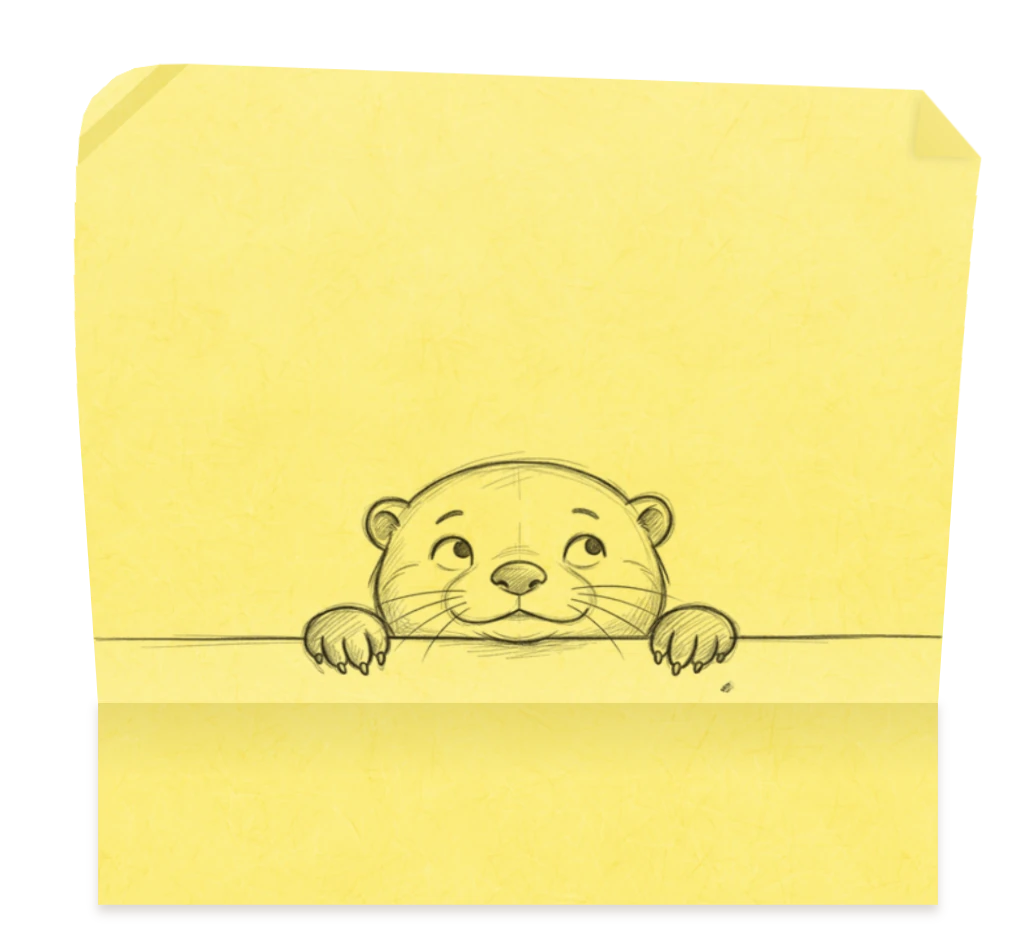
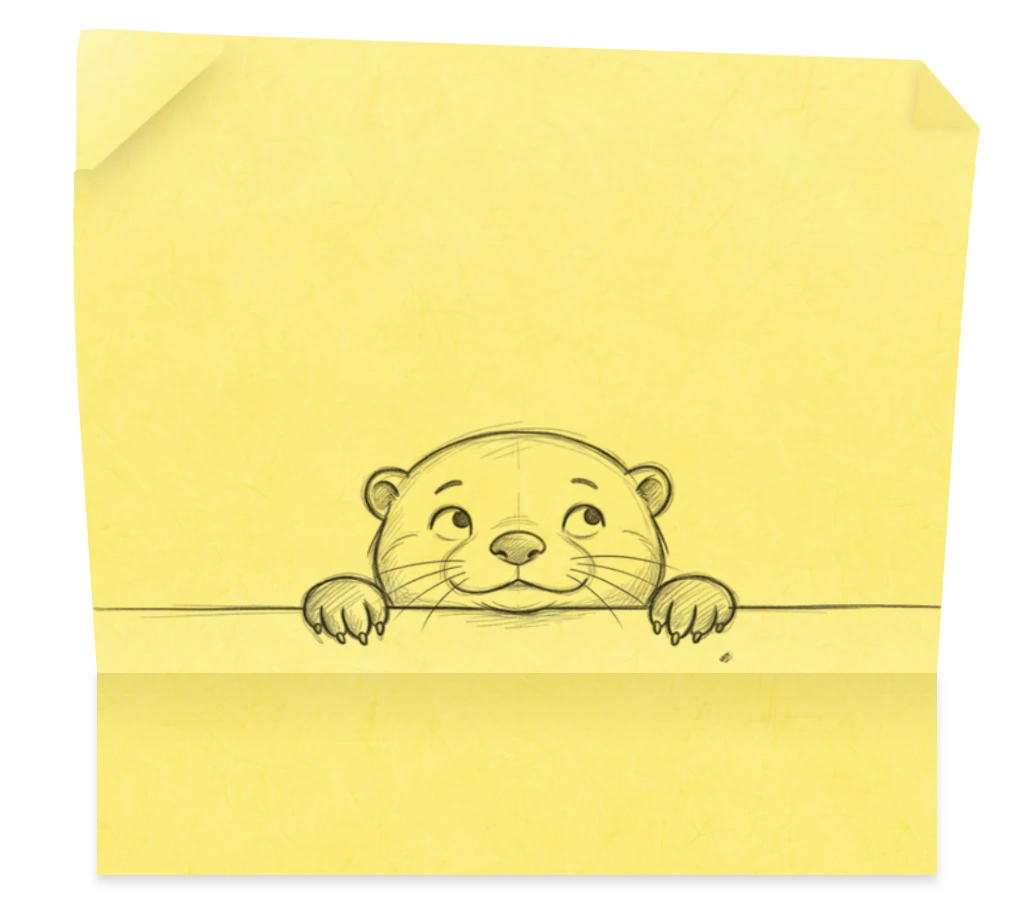
Post-it: the top left corner rolls toward the viewer, point kept
The last version folded the corner away from the camera. Its turns had
the wrong sign, which a test at 170 degrees showed. It also read as a
crease: four hinges up to 80 degrees and a shade in the bend.

Now the corner turns toward the viewer, 0.16 of the note:
- 14 fine hinges whose turns grow toward the tip, 60 degrees in all, so
  it keeps its point;
- one light across the whole curl, brighter toward the tip;
- a soft shadow cast below it on the note, which is what makes it read
  as lifted at the post-it's size.

Every band now paints its paper on its own layer, so the curl can reach
past the top band. A clip-path on a band would flatten the 3D bands
above it. The overlap at each hinge is a share of the note, so the 5x
zoom pictures have no seam. The zoom pictures are re-baked.

Changed region(s): [[0.0914, 0.4641, 0.9449, 0.7735], [0.061, 0.0309, 0.9754, 0.2475]]

diff --git a/src/app/landing/PostIt.tsx b/src/app/landing/PostIt.tsx
@@ -209,32 +209,62 @@ const BANDS = [0.04, 0.04, 0.04, 0.04, 0.04, 0.04, 0.04, 0.12];
 
 /**
  * The top left corner curling toward us (2026-10-07: "make only the top
- * left corner of the postit curl a bit towards the camera"): a square
- * `size` of the note on a side at the top band's corner, cut along diagonal
- * hinges at `hinges` of it - each piece turned about every hinge from the
- * outermost in to its own, by `turn` degrees at each, so it rolls rather
- * than folds (80 degrees at the tip). Shaded in the bend - the paper there
- * turned from the light - and lighter toward the tip, which faces it.
+ * left corner of the postit curl a bit towards the camera"; then "i dont
+ * want that crease type design ... i want it to curl towards the camera.
+ * point of corner still visible"): a square `size` of the note on a side at
+ * the top band's corner - reaching down into the bands below it, whose
+ * faces are cut to match - cut along `steps` diagonal hinges evenly spaced to
+ * the tip, each piece turned about every hinge from the outermost in to its
+ * own. The turns grow toward the tip, adding up to `turn` degrees there - a
+ * roll, too fine at every hinge to show as a fold, and short enough of a
+ * right angle that the corner keeps its point. One light across all of it
+ * (each piece shows its part of the same gradient), brighter toward the tip
+ * as it lifts into the light, like the bands below. (Four hinges, up to 80
+ * degrees and a shade in the bend read as creases and lost the point.)
  */
-const CURL = { size: 0.12, hinges: [1, 0.72, 0.46, 0.22], turn: [14, 18, 22, 26] };
+const CURL = { size: 0.16, steps: 14, turn: 60, light: 0.3 };
 
 function Curl({ backgroundPosition, light }: { backgroundPosition: string; light: number }) {
   const s = CURL.size;
+  const n = CURL.steps;
+  const hinge = (i: number) => 1 - i / n;
+  // The turn at each hinge, growing toward the tip: (i + 1) shares of it.
+  const share = (n * (n + 1)) / 2;
+  const turn = (i: number) => (CURL.turn * (i + 1)) / share;
   const about = (h: number, deg: number) => {
     const m = `calc(var(--note) * ${((s * h) / 2).toFixed(4)})`;
     const back = `calc(var(--note) * ${((-s * h) / 2).toFixed(4)})`;
-    return `translate(${m}, ${m}) rotate3d(1, -1, 0, ${deg}deg) translate(${back}, ${back})`;
+    return `translate(${m}, ${m}) rotate3d(1, -1, 0, ${deg.toFixed(2)}deg) translate(${back}, ${back})`;
   };
-  return CURL.hinges.map((h, i) => {
-    const inner = CURL.hinges[i + 1] ?? 0;
-    // Out to its hinge and 2px past it, under the piece outside it: at the
-    // hinge itself the film showed through the two anti-aliased edges.
-    const out = `calc(${(h * 100).toFixed(1)}% + 2px)`;
-    const clipPath = `polygon(${(inner * 100).toFixed(1)}% 0, ${out} 0, 0 ${out}, 0 ${(inner * 100).toFixed(1)}%)`;
-    const transform = CURL.hinges.slice(0, i + 1).map((hj, j) => about(hj, -CURL.turn[j])).join(" ");
-    const tint = i === 0 ? "rgba(120, 88, 10, 0.07)" : `rgba(255, 255, 255, ${(light + 0.05 * i).toFixed(3)})`;
-    return <span key={i} className={styles.postitCurl} style={{ backgroundPosition, clipPath, transform, boxShadow: `inset 0 0 0 999px ${tint}` }} />;
+  // The gradient on the corner's square, the same for every piece: "to top
+  // left" runs across the hinges, 50% on the outermost, 100% at the tip.
+  const lit = `linear-gradient(to top left, rgba(255,255,255,${light.toFixed(3)}) 50%, rgba(255,255,255,${(light + CURL.light).toFixed(3)}) 100%)`;
+  return Array.from({ length: n }, (_, i) => {
+    const out = hinge(i);
+    const inner = i + 1 < n ? hinge(i + 1) : 0;
+    // Out to its hinge and a little past it (3px at the full 168px note,
+    // in proportion at any size - the zoom pictures are drawn at 5x), under
+    // the piece outside it: at the hinge itself the film showed through the
+    // two anti-aliased edges.
+    const o = `calc(${(out * 100).toFixed(2)}% + var(--note) * 0.018)`;
+    const clipPath = `polygon(${(inner * 100).toFixed(2)}% 0, ${o} 0, 0 ${o}, 0 ${(inner * 100).toFixed(2)}%)`;
+    const transform = Array.from({ length: i + 1 }, (_, j) => about(hinge(j), turn(j))).join(" ");
+    return (
+      <span key={i} className={styles.postitCurl} style={{ backgroundPosition, clipPath, transform }}>
+        <span className={styles.postitLight} style={{ background: lit }} />
+      </span>
+    );
   });
+}
+
+/** A band's face, cut where the curled corner reaches into it - `reach`
+ *  note sides from its top left along each edge - and, on the top band,
+ *  at its turned-over right corner. */
+function faceClip(reach: number, top: boolean) {
+  const left = reach > 0 ? [`calc(var(--note) * ${reach.toFixed(4)}) 0`] : ["0 0"];
+  const right = top ? ["calc(100% - var(--note) * 0.075) 0", "100% calc(var(--note) * 0.075)"] : ["100% 0"];
+  const end = reach > 0 ? [`0 calc(var(--note) * ${reach.toFixed(4)})`] : [];
+  return `polygon(${[...left, ...right, "100% 100%", "0 100%", ...end].join(", ")})`;
 }
 
 function Band({ k }: { k: number }) {
@@ -243,21 +273,15 @@ function Band({ k }: { k: number }) {
   const done = (i: number) => BANDS.slice(0, i).reduce((a, b) => a + b, 0) / (1 - STUCK - FLAT / 100);
   const light = (i: number) => (0.02 + 0.13 * done(i)).toFixed(3);
   const backgroundPosition = `0 calc(var(--note) * ${-top})`;
-  const lit = <span className={styles.postitLight} style={{ background: `linear-gradient(to top, rgba(255,255,255,${light(k)}), rgba(255,255,255,${light(k + 1)}))` }} />;
-  if (k === BANDS.length - 1) {
-    return (
-      <span className={`${styles.postitSeg} ${styles.postitBand} ${styles.postitTop}`} style={{ ["--band" as string]: BANDS[k], ["--curl" as string]: CURL.size }}>
-        <span className={styles.postitFace} style={{ backgroundPosition }}>
-          {lit}
-        </span>
-        <Curl backgroundPosition={backgroundPosition} light={Number(light(k + 1))} />
-      </span>
-    );
-  }
+  const last = k === BANDS.length - 1;
   return (
-    <span className={`${styles.postitSeg} ${styles.postitBand}`} style={{ backgroundPosition, ["--band" as string]: BANDS[k] }}>
-      {lit}
-      <Band k={k + 1} />
+    <span className={`${styles.postitSeg} ${styles.postitBand}`} style={{ ["--band" as string]: BANDS[k], ["--curl" as string]: CURL.size }}>
+      <span className={`${styles.postitFace} ${last ? styles.postitTurned : ""}`} style={{ backgroundPosition, clipPath: faceClip(CURL.size - top, last) }}>
+        <span className={styles.postitLight} style={{ background: `linear-gradient(to top, rgba(255,255,255,${light(k)}), rgba(255,255,255,${light(k + 1)}))` }} />
+        {/* Where the curled corner reaches it, or nearly: its shadow. */}
+        {CURL.size - top > -0.04 && <span className={styles.postitCurlShadow} style={{ top: `calc(var(--note) * ${-top})` }} />}
+      </span>
+      {last ? <Curl backgroundPosition={backgroundPosition} light={Number(light(k + 1))} /> : <Band k={k + 1} />}
     </span>
   );
 }

diff --git a/src/app/landing/landing.module.css b/src/app/landing/landing.module.css
@@ -1311,31 +1311,23 @@
   background: linear-gradient(to top, rgba(255, 255, 255, 0.16), rgba(255, 255, 255, 0) 45%, rgba(255, 255, 255, 0) 70%, rgba(255, 255, 255, 0.02));
 }
 
-/* The top band: its paper on .postitFace, cut at both top corners - the
-   right one turned over (::after), the left one curling toward us
-   (.postitCurl, 2026-10-07: "make only the top left corner of the postit
-   curl a bit towards the camera"). Not on the band itself: a clip-path
-   flattens what is in it, and the curl turns in 3D. */
-.postitTop {
+/* A band's paper is on its .postitFace, not on the band: the faces under
+   the top left corner are cut where it curls toward us (PostIt.tsx, CURL;
+   2026-10-07), and a clip-path flattens what is in it - the bands above
+   and the curl turn in 3D. The top band's face is cut at its right corner
+   too, which is turned over (.postitTurned). */
+.postitBand {
   background: none;
 }
 
 .postitFace {
   position: absolute;
   inset: 0;
-  clip-path: polygon(
-    calc(var(--note) * var(--curl)) 0,
-    calc(100% - var(--note) * 0.075) 0,
-    100% calc(var(--note) * 0.075),
-    100% 100%,
-    0 100%,
-    0 calc(var(--note) * var(--curl))
-  );
 }
 
-/* A piece of the curl: the band's corner, a square --curl of the note on a
-   side, cut to its strip between two diagonal hinges and turned about each
-   hinge out to it (PostIt.tsx, CURL). */
+/* A piece of the curl: a square --curl of the note on a side from the top
+   band's corner, cut to its strip between two diagonal hinges and turned
+   about each hinge out to it (PostIt.tsx, CURL). */
 .postitCurl {
   position: absolute;
   left: 0;
@@ -1345,9 +1337,32 @@
   transform-origin: 0 0;
 }
 
+/* The shadow the curled corner casts on the note under it: its own shape,
+   a little lower, softened - shown only where the face is, past the hinge
+   (the face is cut where the corner was). Placed from the note's top; the
+   blur on the outer span, the shape on the inner, as a clip-path applies
+   after a filter on one element and would cut the blur back off. */
+.postitCurlShadow {
+  position: absolute;
+  left: 0;
+  width: calc(var(--note) * var(--curl));
+  height: calc(var(--note) * var(--curl));
+  transform: translate(calc(var(--note) * 0.003), calc(var(--note) * 0.024));
+  filter: blur(calc(var(--note) * 0.022));
+  pointer-events: none;
+}
+
+.postitCurlShadow::before {
+  content: "";
+  position: absolute;
+  inset: 0;
+  background: rgba(96, 70, 8, 0.3);
+  clip-path: polygon(0 0, 100% 0, 0 100%);
+}
+
 /* The top right corner turned over: the note's back, barely duller, and the
    faintest shadow on the front ("the turned corner gradients less obvious"). */
-.postitFace::after {
+.postitTurned::after {
   content: "";
   position: absolute;
   top: 0;
